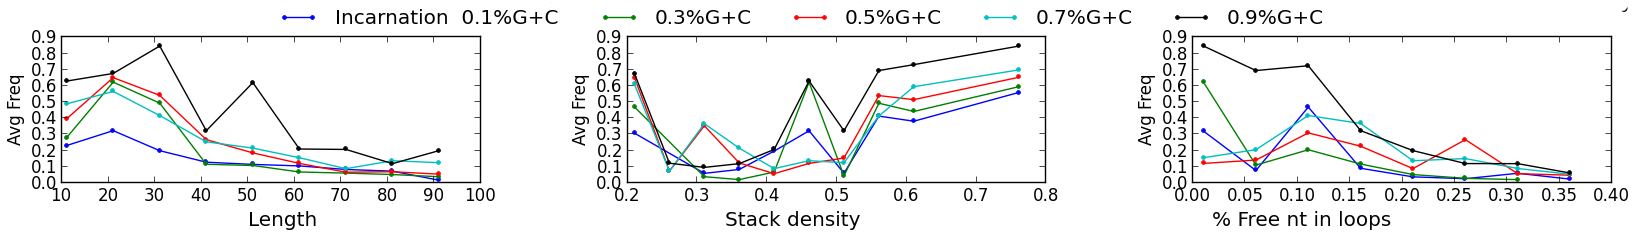
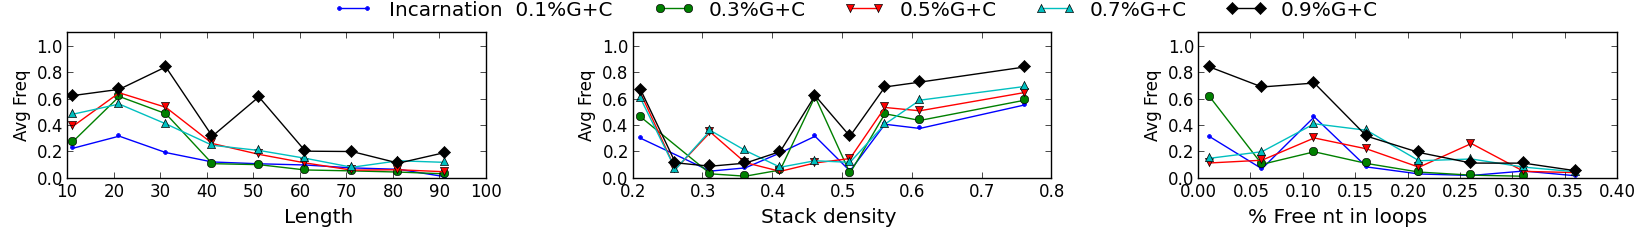
sup / fig

diff --git a/ISMB/supplementary_ISMB.tex b/ISMB/supplementary_ISMB.tex
@@ -10,7 +10,7 @@ only \texttt{Incarnation}, and both.
 
 \begin{figure}[ht!]
 	\centering
-	\includegraphics[scale=0.4]{Figures/RNAinverse_data_100.png}
+	\includegraphics[scale=0.35]{Figures/RNAinverse_data_100.png}
 	\caption{Entropy and \texttt{C+G} content. The first
 		column is in function of the length, the second of the stacks
 		density and the last of the percentage of free nucleotides in loops.
